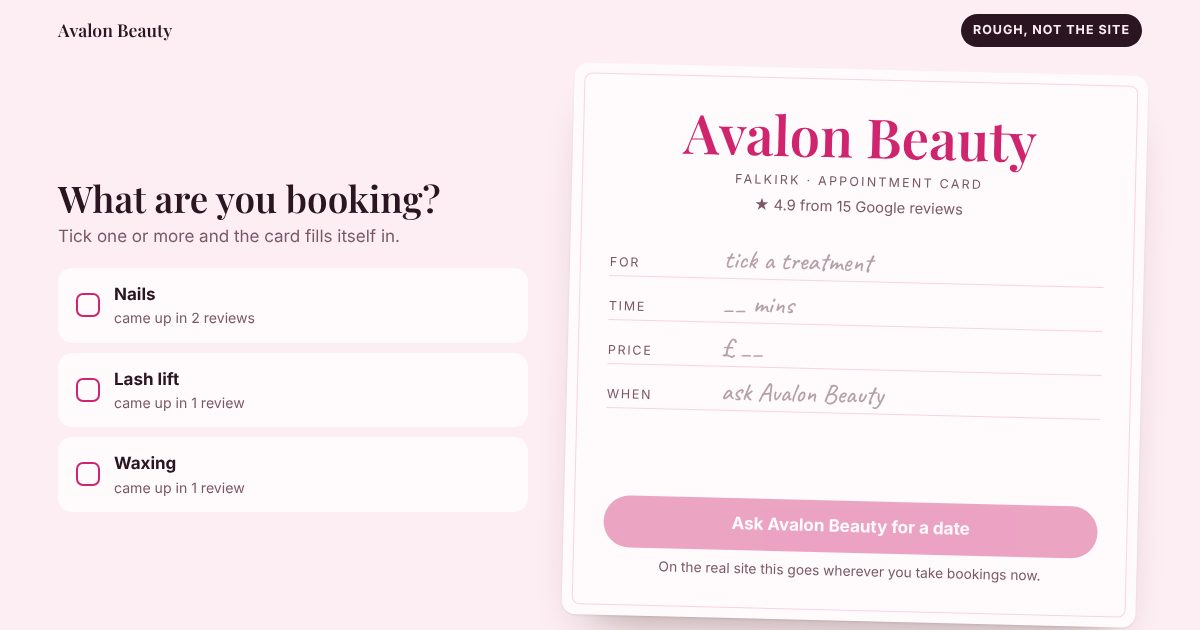
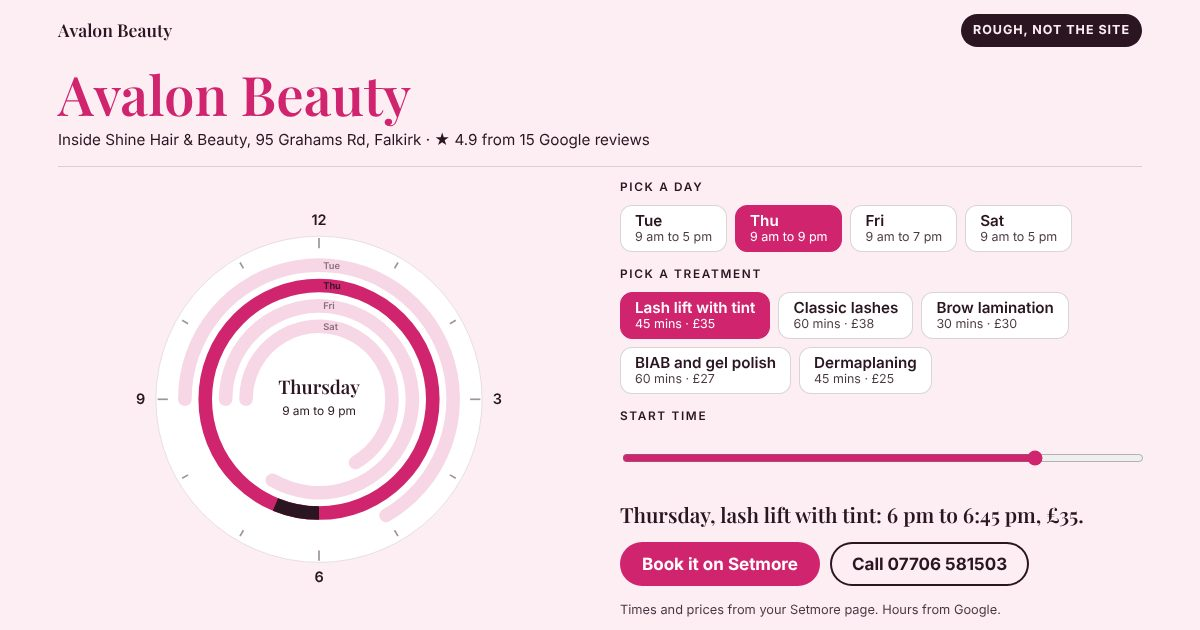
Avalon: the clock first screen

diff --git a/concepts/avalon-beauty/index.html b/concepts/avalon-beauty/index.html
@@ -80,23 +80,12 @@ h1,h2,h3{margin:0;text-wrap:balance}p{margin:0;text-wrap:pretty}a{color:inherit}
 .shot figcaption span{background:rgba(255,255,255,.92);color:#111;padding:5px 10px;border-radius:999px}
 .shot figcaption .st{background:rgba(17,17,17,.82);color:#fff}
 .bkfirst{margin-top:6px}
-.faq{margin-top:8px}.faq details{border-top:1px solid color-mix(in srgb,currentColor 18%,transparent);padding:14px 0}.faq details:last-child{border-bottom:1px solid color-mix(in srgb,currentColor 18%,transparent)}.faq summary{cursor:pointer;font-weight:700;min-height:var(--tap,44px);display:flex;align-items:center;list-style:none}.faq summary::-webkit-details-marker{display:none}.faq summary::after{content:'+';margin-left:auto;padding-left:12px;font-size:1.3em;line-height:1}.faq details[open] summary::after{content:'\2212'}.faq p{margin:8px 0 0;max-width:62ch;opacity:.9}.cta{display:flex;flex-wrap:wrap;gap:12px;margin-top:22px}.cta .btn{flex:0 0 auto;display:inline-flex;align-items:center;justify-content:center;min-height:var(--tap,44px);padding:0 22px;border-radius:999px;text-decoration:none;font-weight:700}.cta .btn.alt{background:transparent;color:inherit;box-shadow:inset 0 0 0 2px currentColor}.foot a{text-decoration:underline;text-underline-offset:2px}</style></head><body><a class="skip" href="#main">Skip to content</a>
+.faq{margin-top:8px}.faq details{border-top:1px solid color-mix(in srgb,currentColor 18%,transparent);padding:14px 0}.faq details:last-child{border-bottom:1px solid color-mix(in srgb,currentColor 18%,transparent)}.faq summary{cursor:pointer;font-weight:700;min-height:var(--tap,44px);display:flex;align-items:center;list-style:none}.faq summary::-webkit-details-marker{display:none}.faq summary::after{content:'+';margin-left:auto;padding-left:12px;font-size:1.3em;line-height:1}.faq details[open] summary::after{content:'\2212'}.faq p{margin:8px 0 0;max-width:62ch;opacity:.9}.cta{display:flex;flex-wrap:wrap;gap:12px;margin-top:22px}.cta .btn{flex:0 0 auto;display:inline-flex;align-items:center;justify-content:center;min-height:var(--tap,44px);padding:0 22px;border-radius:999px;text-decoration:none;font-weight:700}.cta .btn.alt{background:transparent;color:inherit;box-shadow:inset 0 0 0 2px currentColor}.foot a{text-decoration:underline;text-underline-offset:2px}.first{display:block;padding-top:6px}@media(min-width:900px){.first{display:block}}.hd{border-bottom:1px solid color-mix(in srgb,var(--ink) 15%,transparent);padding-bottom:14px;margin-bottom:12px}.hd h1{font-family:var(--fd);font-weight:700;font-size:clamp(2rem,5vw,3.4rem);line-height:1;margin:0;color:var(--accent)}.hd .loc{margin:8px 0 0;font-size:.95rem}.clock{display:grid;gap:18px;align-items:center}@media(min-width:900px){.clock{grid-template-columns:minmax(0,1fr) minmax(0,1fr);gap:40px}}.dial{width:100%;max-width:560px;max-height:62vh;margin:0 auto;display:block;overflow:visible}.dial .face{fill:#fff;stroke:color-mix(in srgb,var(--ink) 12%,transparent)}.dial .tk line{stroke:var(--ink);stroke-width:2;opacity:.45}.dial .nm text{font:600 17px var(--ft);fill:var(--ink);text-anchor:middle}.ring{fill:none;stroke:var(--accent);stroke-width:16;stroke-linecap:round;opacity:.18;transition:opacity .3s var(--ease)}.ring.on{opacity:1}.rl{font:600 11px var(--ft);fill:var(--ink);opacity:.55}.rl.on{opacity:1}.slot{fill:none;stroke:var(--ink);stroke-width:16;stroke-linecap:butt}.ctr{font:700 22px var(--fd);text-anchor:middle;fill:var(--ink)}.ctr2{font:500 14px var(--ft);text-anchor:middle;fill:var(--ink)}.panel{display:grid;gap:14px}.grp{border:0;margin:0;padding:0;min-width:0}.grp legend,.grp .lg{display:block;font-size:.74rem;letter-spacing:.14em;text-transform:uppercase;font-weight:600;margin-bottom:8px;padding:0}.pks{display:flex;flex-wrap:wrap;gap:8px}.pk{position:relative}.pk input{position:absolute;inset:0;opacity:0;margin:0;cursor:pointer}.pk span{display:flex;flex-direction:column;justify-content:center;min-height:var(--tap,44px);padding:6px 14px;border-radius:12px;background:#fff;border:1.5px solid color-mix(in srgb,var(--ink) 18%,transparent);font-weight:600;font-size:.95rem;line-height:1.2}.pk small{font-weight:400;font-size:.78rem;opacity:.85}.pk input:checked+span{background:var(--accent);border-color:var(--accent);color:#fff}.pk input:checked+span small{opacity:1}.pk input:focus-visible+span,.sl input:focus-visible{outline:3px solid var(--ink);outline-offset:2px}.sl input{width:100%;accent-color:var(--accent);min-height:var(--tap,44px)}.read{margin:0;font-family:var(--fd);font-size:1.3rem;line-height:1.3}.panel .row{display:flex;flex-wrap:wrap;gap:10px}.panel .btn{width:auto;margin:0;padding:0 22px;min-height:var(--tap,44px);display:inline-flex;align-items:center;border-radius:999px;text-decoration:none;color:#fff}.panel .btn.alt{background:transparent;color:var(--ink);box-shadow:inset 0 0 0 2px currentColor}.src{margin:0;font-size:.8rem;opacity:.85}@media(prefers-reduced-motion:reduce){.ring{transition:none}}</style></head><body><a class="skip" href="#main">Skip to content</a>
 <header class="wrap top"><span class="who">Avalon Beauty</span><span class="tag">Rough, not the site</span></header>
-<main id="main"><section class="wrap first" aria-label="The first screen">
-<div class="pick"><h2>What are you booking?</h2><p class="sub">Tick one or more and the card fills itself in.</p>
-<fieldset style="border:0;padding:0;margin:0"><legend class="skip">Treatments</legend><div class="opts"><label class="opt"><input type="checkbox" value="0"><span class="opt__box" aria-hidden="true"></span><span class="opt__n">Nails<small>came up in 2 reviews</small></span></label><label class="opt"><input type="checkbox" value="1"><span class="opt__box" aria-hidden="true"></span><span class="opt__n">Lash lift<small>came up in 1 review</small></span></label><label class="opt"><input type="checkbox" value="2"><span class="opt__box" aria-hidden="true"></span><span class="opt__n">Waxing<small>came up in 1 review</small></span></label></div></fieldset></div>
-<div class="cardwrap"><div class="acard"><h1>Avalon Beauty</h1><p class="loc">Falkirk · appointment card</p>
-<p class="stars">★ 4.9 from 15 Google reviews</p>
-<dl style="margin:0"><div class="line"><dt>For</dt><dd id="cT" class="empty">tick a treatment</dd></div>
-<div class="line"><dt>Time</dt><dd id="cM" class="empty">__ mins</dd></div>
-<div class="line"><dt>Price</dt><dd id="cP" class="empty">£ __</dd></div>
-<div class="line"><dt>When</dt><dd id="cW" class="empty">ask Avalon Beauty</dd></div></dl>
-<p class="quote" id="cQ" aria-live="polite"></p>
-<button class="btn" id="ask" type="button" disabled>Ask Avalon Beauty for a date</button><p class="bnote" id="bnote">On the real site this goes wherever you take bookings now.</p></div></div>
-</section>
-<section class="wrap sec" aria-labelledby="h-why"><h2 id="h-why">Why an appointment card, not a photo banner</h2><p class="lead">Most salon sites open on a big photo, a slogan and a Book now button. Yours opens on the thing every client leaves with: the card. Someone ticks what they are in for, the card fills itself in by hand, and they read what one of your own reviewers said about that treatment before they ask for a date. The treatments listed are the ones your Google reviewers mention most, so it already sounds like Avalon Beauty.</p>
-<div class="cols"><div class="card2"><p class="k">What I have used, all public on Google</p><ul class="list"><li>Avalon Beauty is at Now within shine hair &amp; beauty, 95 Grahams Rd, Falkirk.</li><li>15 Google reviews, averaging 4.9.</li><li>Your opening hours as listed on Google.</li><li>What your reviewers mention most: nails, lash lift, waxing.</li><li>At the moment your web address on Google goes to a booking or directory page rather than a site of your own.</li></ul></div>
-<div class="card2"><p class="k">What I would still need from you</p><ul class="list"><li>Your full treatment list with prices and times.</li><li>How you take bookings now, so the button goes to the right place.</li><li>Six to ten photos of your work. Real ones, off your phone is fine.</li><li>A line or two about you and the salon.</li></ul></div></div></section>
+<main id="main"><section class="wrap first" aria-label="The first screen"><div class="hd"><h1>Avalon Beauty</h1><p class="loc">Inside Shine Hair &amp; Beauty, 95 Grahams Rd, Falkirk · ★ 4.9 from 15 Google reviews</p></div><div class="clock"><svg class="dial" viewBox="-30 -30 460 460" role="img" aria-labelledby="dialT"><title id="dialT">A clock face with Avalon Beauty's four open days as rings. Thursday, 9 am to 9 pm, is a full circle. A lash lift with tint is marked on Thursday from 6 pm to 6:45 pm.</title><circle cx="200" cy="200" r="192" class="face"/><g class="tk"><line x1="200.0" y1="22.0" x2="200.0" y2="10.0"/><line x1="289.0" y1="45.8" x2="293.0" y2="38.9"/><line x1="354.2" y1="111.0" x2="361.1" y2="107.0"/><line x1="378.0" y1="200.0" x2="390.0" y2="200.0"/><line x1="354.2" y1="289.0" x2="361.1" y2="293.0"/><line x1="289.0" y1="354.2" x2="293.0" y2="361.1"/><line x1="200.0" y1="378.0" x2="200.0" y2="390.0"/><line x1="111.0" y1="354.2" x2="107.0" y2="361.1"/><line x1="45.8" y1="289.0" x2="38.9" y2="293.0"/><line x1="22.0" y1="200.0" x2="10.0" y2="200.0"/><line x1="45.8" y1="111.0" x2="38.9" y2="107.0"/><line x1="111.0" y1="45.8" x2="107.0" y2="38.9"/></g><g class="nm"><text x="200.0" y="-5.0">12</text><text x="410.0" y="205.0">3</text><text x="200.0" y="415.0">6</text><text x="-10.0" y="205.0">9</text></g><g class="rings"><path class="ring" data-d="Tuesday" d="M42.0,200.0 A158,158 0 1 1 279.0,336.8"/><text class="rl" data-d="Tuesday" x="205" y="46">Tue</text><path class="ring on" data-d="Thursday" d="M66.0,200.0 A134,134 0 1 1 334.0,200.0 A134,134 0 1 1 66.0,200.0"/><text class="rl on" data-d="Thursday" x="205" y="70">Thu</text><path class="ring" data-d="Friday" d="M90.0,200.0 A110,110 0 1 1 145.0,295.3"/><text class="rl" data-d="Friday" x="205" y="94">Fri</text><path class="ring" data-d="Saturday" d="M114.0,200.0 A86,86 0 1 1 243.0,274.5"/><text class="rl" data-d="Saturday" x="205" y="118">Sat</text></g><path id="slot" class="slot" d="M200.0,334.0 A134,134 0 0 1 148.7,323.8"/><text class="ctr" x="200" y="194" id="cD">Thursday</text><text class="ctr2" x="200" y="218" id="cH">9 am to 9 pm</text></svg><div class="panel"><fieldset class="grp"><legend>Pick a day</legend><div class="pks"><label class="pk"><input type="radio" name="aD" value="Tuesday"><span>Tue<small>9 am to 5 pm</small></span></label><label class="pk"><input type="radio" name="aD" value="Thursday" checked><span>Thu<small>9 am to 9 pm</small></span></label><label class="pk"><input type="radio" name="aD" value="Friday"><span>Fri<small>9 am to 7 pm</small></span></label><label class="pk"><input type="radio" name="aD" value="Saturday"><span>Sat<small>9 am to 5 pm</small></span></label></div></fieldset><fieldset class="grp"><legend>Pick a treatment</legend><div class="pks"><label class="pk"><input type="radio" name="aT" value="0" checked><span>Lash lift with tint<small>45 mins · £35</small></span></label><label class="pk"><input type="radio" name="aT" value="1"><span>Classic lashes<small>60 mins · £38</small></span></label><label class="pk"><input type="radio" name="aT" value="2"><span>Brow lamination<small>30 mins · £30</small></span></label><label class="pk"><input type="radio" name="aT" value="3"><span>BIAB and gel polish<small>60 mins · £27</small></span></label><label class="pk"><input type="radio" name="aT" value="4"><span>Dermaplaning<small>45 mins · £25</small></span></label></div></fieldset><label class="grp sl" for="aS"><span class="lg">Start time</span><input type="range" id="aS" min="540" max="1215" step="15" value="1080" aria-valuetext="6 pm"></label><p class="read" id="aR" aria-live="polite">Thursday, lash lift with tint: 6 pm to 6:45 pm, £35.</p><div class="row"><a class="btn" href="https://avalonbeautyfalkirk.setmore.com/">Book it on Setmore</a><a class="btn alt" href="tel:+447706581503">Call 07706 581503</a></div><p class="src">Times and prices from your Setmore page. Hours from Google.</p></div></div></section>
+<section class="wrap sec" aria-labelledby="h-why"><h2 id="h-why">Why a clock, not a photo banner</h2><p class="lead">Most salon sites open on a big photo, a slogan and a Book now button. Yours opens on your week. You are open four days, and Thursday runs from 9 am to 9 pm, which on a clock face is a full circle. Pick a day and a treatment and it drops onto the ring at its real length and price from your Setmore page, so someone at work can see a lash lift fits in after 6 on a Thursday before they book.</p>
+<div class="cols"><div class="card2"><p class="k">What I have used, all public on Google</p><ul class="list"><li>Avalon Beauty is inside Shine Hair &amp; Beauty, 95 Grahams Rd, Falkirk.</li><li>15 Google reviews, averaging 4.9.</li><li>Your opening hours as listed on Google.</li><li>Your treatments, times and prices from your Setmore page.</li><li>At the moment your web address on Google goes to a booking or directory page rather than a site of your own.</li></ul></div>
+<div class="card2"><p class="k">What I would still need from you</p><ul class="list"><li>Which treatments you want shown first.</li><li>How you take bookings now, so the button goes to the right place.</li><li>Six to ten photos of your work. Real ones, off your phone is fine.</li><li>A line or two about you and the salon.</li></ul></div></div></section>
 <section class="wrap deal" aria-labelledby="h-ph"><h2 id="h-ph">With your own photos in</h2><p class="lead">These two are stand-ins so you can picture the feel. On the real site every photo is yours, and phone photos are fine.</p><div class="shots"><figure class="shot"><img src="img/1.jpg" alt="Lash extensions, a stand-in photo" loading="lazy" width="1024" height="768"><figcaption><span>Lash extensions</span><span class="st">Stand-in. Your own photos replace this</span></figcaption></figure><figure class="shot"><img src="img/2.jpg" alt="BIAB nails, a stand-in photo" loading="lazy" width="1024" height="768"><figcaption><span>BIAB nails</span><span class="st">Stand-in. Your own photos replace this</span></figcaption></figure></div></section><section class="wrap deal" aria-labelledby="h-bk"><h2 id="h-bk">Let people book a appointment without ringing you</h2><p class="lead">Try it. The days and times come from your opening hours on Google. When you are mid-appointment the phone goes unanswered, and this takes the booking for you.</p>
 <div class="bk"><div class="bkp" id="bk"><fieldset><legend>Book a treatment</legend><div class="chips" id="bkItems"></div></fieldset>
 <fieldset><legend>Pick a day</legend><div class="chips" id="bkDays"></div></fieldset>
@@ -104,24 +93,7 @@ h1,h2,h3{margin:0;text-wrap:balance}p{margin:0;text-wrap:pretty}a{color:inherit}
 <div class="cols"><div class="card2"><ol class="pages"><li><b>Home</b><span>The appointment card, your treatments, reviews and how to book.</span></li><li><b>Treatments and prices</b><span>Each treatment with price, time, how long it lasts and aftercare.</span></li><li><b>Your work</b><span>A gallery of real photos, off your phone is fine.</span></li><li><b>About</b><span>You, the salon, what to expect on a first visit.</span></li><li><b>Book</b><span>Whatever you use now, kept: a booking app, messages or a form that emails you.</span></li></ol></div>
 <div class="card2"><p class="price">£599<small>Fixed. Five pages, built properly for phones, your own web address, set up so Google can find you, one round of changes, and I do the launch. Ten to fourteen days once I have your text and photos. £200 to start, £399 when you are happy with it. In November your own booking system goes in at no extra cost.</small></p>
 <p style="margin-top:14px;opacity:.85">You own the address and the site from day one. If you ever stop using me, it all stays yours.</p><p class="sig">Logan</p></div></div></section><section class="wrap sec" aria-labelledby="h-faq"><h2 id="h-faq">Questions people ask first</h2><div class="faq"><details><summary>What does it cost?</summary><p>£599, fixed. £200 to start and £399 when you are happy with it. No hosting bill on top.</p></details><details><summary>How long does it take?</summary><p>Ten to fourteen days once I have your text and photos.</p></details><details><summary>Is the booking system extra?</summary><p>Not in November. It goes in for the same £599, with no monthly fee for the first three months. Normally it is £649 plus £20 a month. The deal ends on 30 November.</p></details><details><summary>Who owns it?</summary><p>You do. The web address and the site are in your name from day one, and if you ever stop using me it all stays yours.</p></details><details><summary>What do you need from me?</summary><p>What you want people to do first, your services and any prices you want shown, six to ten photos, and a line or two about you.</p></details><details><summary>What happens to what I have now?</summary><p>Your Google listing stays exactly as it is. If you already have a site, the new one replaces it on the same address. If you do not, I set one up in your name.</p></details></div><h2 style="margin-top:34px">Want this to be the real one?</h2><p class="lead">Reply to my email or give me a ring. Ten minutes on the phone is enough to get going.</p><div class="cta"><a class="btn" href="mailto:logan@tempanywebstudios.co.uk?subject=Website%20for%20Avalon%20Beauty">Email Logan</a><a class="btn alt" href="tel:+447487536649">Call 07487 536649</a></div></section></main><footer class="wrap foot"><p>A rough by Tempany Web Studios, Dollar. logan@tempanywebstudios.co.uk · 07487 536649. Drawn from what is public about Avalon Beauty on Google: nothing here is live, the colours are a first pass, and anything marked __ is still to come from you. <a href="/privacy/#previews">How visits here are handled</a> · <a href="/privacy/">Privacy</a> · <a href="/terms/">Terms</a> · <a href="/">Tempany Web Studios</a></p></footer><script id="d" type="application/json">{"services": [{"label": "Nails", "count": 2, "quote": {"text": "A very personal one to one with rachael she is a bubbly person & her rates r very fair & she does a oap day on a wed at a lower rate shellac for £15 Rachael isvery accomodating will advice u on any issues u mite have…", "name": "Joyce", "when": "8 years ago"}}, {"label": "Lash lift", "count": 1, "quote": {"text": "Went for a lash lift, was very relaxing and comfertable. Beautiful wee salon.", "name": "Erin", "when": "2 years ago"}}, {"label": "Waxing", "count": 1, "quote": {"text": "A very personal one to one with rachael she is a bubbly person & her rates r very fair & she does a oap day on a wed at a lower rate shellac for £15 Rachael isvery accomodating will advice u on any issues u mite have…", "name": "Joyce", "when": "8 years ago"}}], "name": "Avalon Beauty", "short": "Avalon Beauty", "hours": {"Monday": [], "Tuesday": [[540, 1020]], "Wednesday": [], "Thursday": [[540, 1260]], "Friday": [[540, 1140]], "Saturday": [[540, 1020]], "Sunday": []}}</script>
-<script>(function(){var D=JSON.parse(document.getElementById('d').textContent);
-function londonNow(){var f=new Intl.DateTimeFormat('en-GB',{timeZone:'Europe/London',weekday:'long',hour:'2-digit',minute:'2-digit',hourCycle:'h23'});var o={};f.formatToParts(new Date()).forEach(function(p){o[p.type]=p.value});return {day:o.weekday,min:(+o.hour)*60+(+o.minute)}}
-function fmt(m){m=((m%1440)+1440)%1440;var h=Math.floor(m/60),mi=m%60,ap=h<12?'am':'pm';h=h%12||12;return h+(mi?':'+(mi<10?'0':'')+mi:'')+' '+ap}
-var DAYS=['Monday','Tuesday','Wednesday','Thursday','Friday','Saturday','Sunday'];
-function openState(H){var n=londonNow(),t=H[n.day]||[];for(var i=0;i<t.length;i++){if(n.min>=t[i][0]&&n.min<t[i][1])return {open:true,text:'Open now, until '+fmt(t[i][1])}}
-for(var i=0;i<t.length;i++){if(n.min<t[i][0])return {open:false,text:'Closed just now, opens '+fmt(t[i][0])+' today'}}
-var d=DAYS.indexOf(n.day);for(var k=1;k<=7;k++){var dn=DAYS[(d+k)%7],s=H[dn]||[];if(s.length)return {open:false,text:'Closed just now, opens '+(k==1?'tomorrow':dn)+' at '+fmt(s[0][0])}}
-return {open:false,text:'Hours to come'}}
-
-var boxes=[].slice.call(document.querySelectorAll('.opt input')),T=document.getElementById('cT'),M=document.getElementById('cM'),P=document.getElementById('cP'),W=document.getElementById('cW'),Q=document.getElementById('cQ'),B=document.getElementById('ask'),N=document.getElementById('bnote');
-var st=openState(D.hours);
-function put(el,txt,empty){if(el.textContent===txt)return;el.textContent=txt;el.classList.toggle('empty',!!empty);el.classList.remove('write');void el.offsetWidth;el.classList.add('write')}
-function render(last){var on=boxes.filter(function(b){return b.checked}).map(function(b){return D.services[+b.value]});
-if(!on.length){put(T,'tick a treatment',1);put(M,'__ mins',1);put(P,'£ __',1);put(W,'ask '+D.short,1);Q.textContent='';B.disabled=true;return}
-put(T,on.map(function(s){return s.label}).join(' + '));put(M,on.length>1?'__ mins, one visit':'__ mins');put(P,'£ __');put(W,st.open?st.text.replace('Open now, until','today, open until'):st.text.replace('Closed just now, ',''));B.disabled=false;
-var s=last||on[on.length-1];if(s&&s.quote){Q.innerHTML='';Q.appendChild(document.createTextNode('“'+s.quote.text+'”'));var c=document.createElement('cite');c.textContent=s.quote.name+', Google review'+(s.quote.when?', '+s.quote.when:'');Q.appendChild(c)}else{Q.textContent=''}}
-boxes.forEach(function(b){b.addEventListener('change',function(){render(b.checked?D.services[+b.value]:null)})});
-B.addEventListener('click',function(){N.textContent='This is a rough, so it goes nowhere yet. On the live site the message to '+D.short+' already says what they picked.'});render();})();</script><script id="bkd" type="application/json">{"hours": {"Monday": [], "Tuesday": [[540, 1020]], "Wednesday": [], "Thursday": [[540, 1260]], "Friday": [[540, 1140]], "Saturday": [[540, 1020]], "Sunday": []}, "items": ["Classic lashes", "Lash infills", "Brow lamination", "BIAB nails", "Dermaplaning facial"], "kind": "appt", "nohours": false}</script><script>
+<script>(function(){var D={"days": {"Tuesday": [540, 1020], "Thursday": [540, 1260], "Friday": [540, 1140], "Saturday": [540, 1020]}, "rad": {"Tuesday": 158, "Thursday": 134, "Friday": 110, "Saturday": 86}, "t": [{"n": "Lash lift with tint", "m": 45, "p": 35}, {"n": "Classic lashes", "m": 60, "p": 38}, {"n": "Brow lamination", "m": 30, "p": 30}, {"n": "BIAB and gel polish", "m": 60, "p": 27}, {"n": "Dermaplaning", "m": 45, "p": 25}]},C=200;function pt(r,m){var a=((m/60)%12)/12*2*Math.PI-Math.PI/2;return [C+r*Math.cos(a),C+r*Math.sin(a)]}function arc(r,a,b){var p=pt(r,a),q=pt(r,b);if(b-a>=720){var h=pt(r,a+360);return 'M'+p+' A'+r+','+r+' 0 1 1 '+h+' A'+r+','+r+' 0 1 1 '+p}return 'M'+p+' A'+r+','+r+' 0 '+(b-a>360?1:0)+' 1 '+q}function f(m){var h=Math.floor(m/60),mm=m%60,ap=h<12?'am':'pm';h=h%12||12;return h+(mm?':'+(mm<10?'0':'')+mm:'')+' '+ap}var S=document.getElementById('aS'),R=document.getElementById('aR'),slot=document.getElementById('slot'),cD=document.getElementById('cD'),cH=document.getElementById('cH');function v(n){var c=document.querySelector('input[name='+n+']:checked');return c&&c.value}function paint(){var d=v('aD'),t=D.t[+v('aT')],o=D.days[d],mx=o[1]-t.m;S.min=o[0];S.max=mx;if(+S.value>mx)S.value=mx;if(+S.value<o[0])S.value=o[0];var s=+S.value;S.setAttribute('aria-valuetext',f(s));[].forEach.call(document.querySelectorAll('.ring,.rl'),function(e){e.classList.toggle('on',e.getAttribute('data-d')===d)});slot.setAttribute('d',arc(D.rad[d],s,s+t.m));cD.textContent=d;cH.textContent=f(o[0])+' to '+f(o[1]);R.textContent=d+', '+t.n.charAt(0).toLowerCase()+t.n.slice(1)+': '+f(s)+' to '+f(s+t.m)+', \u00a3'+t.p+'.'}[].forEach.call(document.querySelectorAll('.pk input'),function(i){i.addEventListener('change',paint)});S.addEventListener('input',paint);paint()})();</script><script id="bkd" type="application/json">{"hours": {"Monday": [], "Tuesday": [[540, 1020]], "Wednesday": [], "Thursday": [[540, 1260]], "Friday": [[540, 1140]], "Saturday": [[540, 1020]], "Sunday": []}, "items": ["Classic lashes", "Lash infills", "Brow lamination", "BIAB nails", "Dermaplaning facial"], "kind": "appt", "nohours": false}</script><script>
 (function(){var D=JSON.parse(document.getElementById('bkd').textContent);var root=document.getElementById('bk');if(!root)return;
 var st={item:null,day:null,time:null};var DN=['Sunday','Monday','Tuesday','Wednesday','Thursday','Friday','Saturday'];
 function mins(t){return t}
